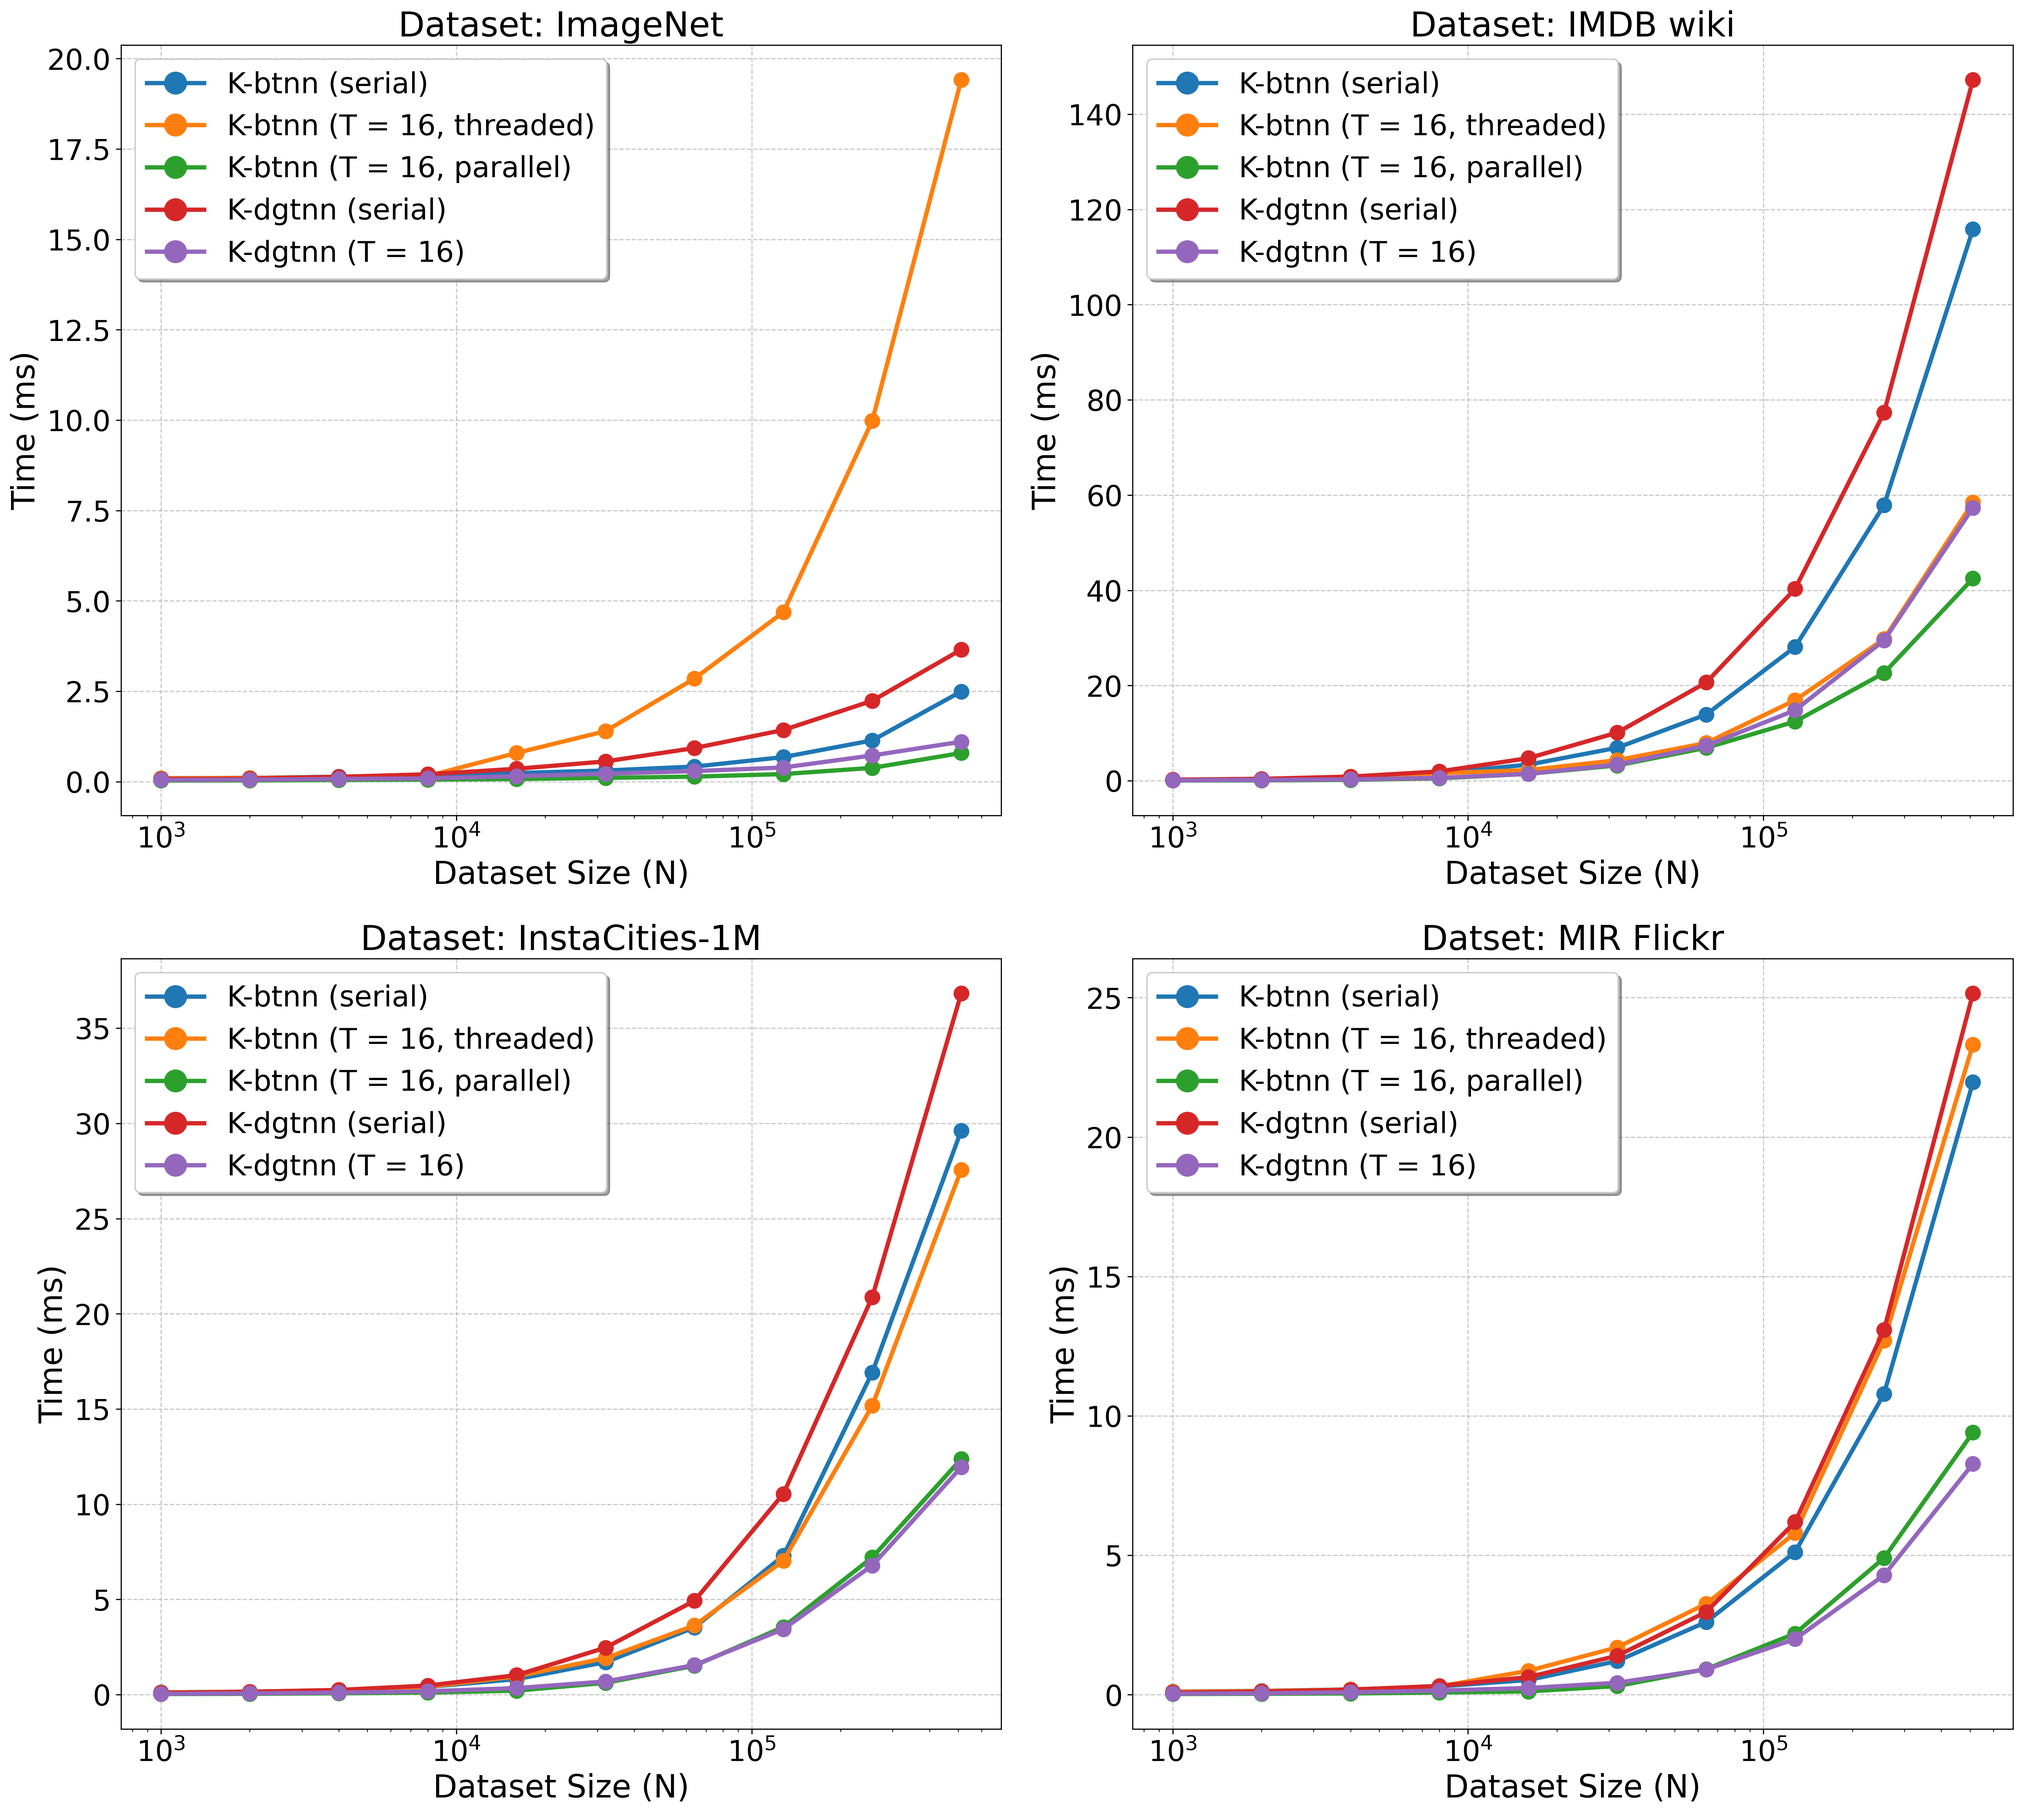
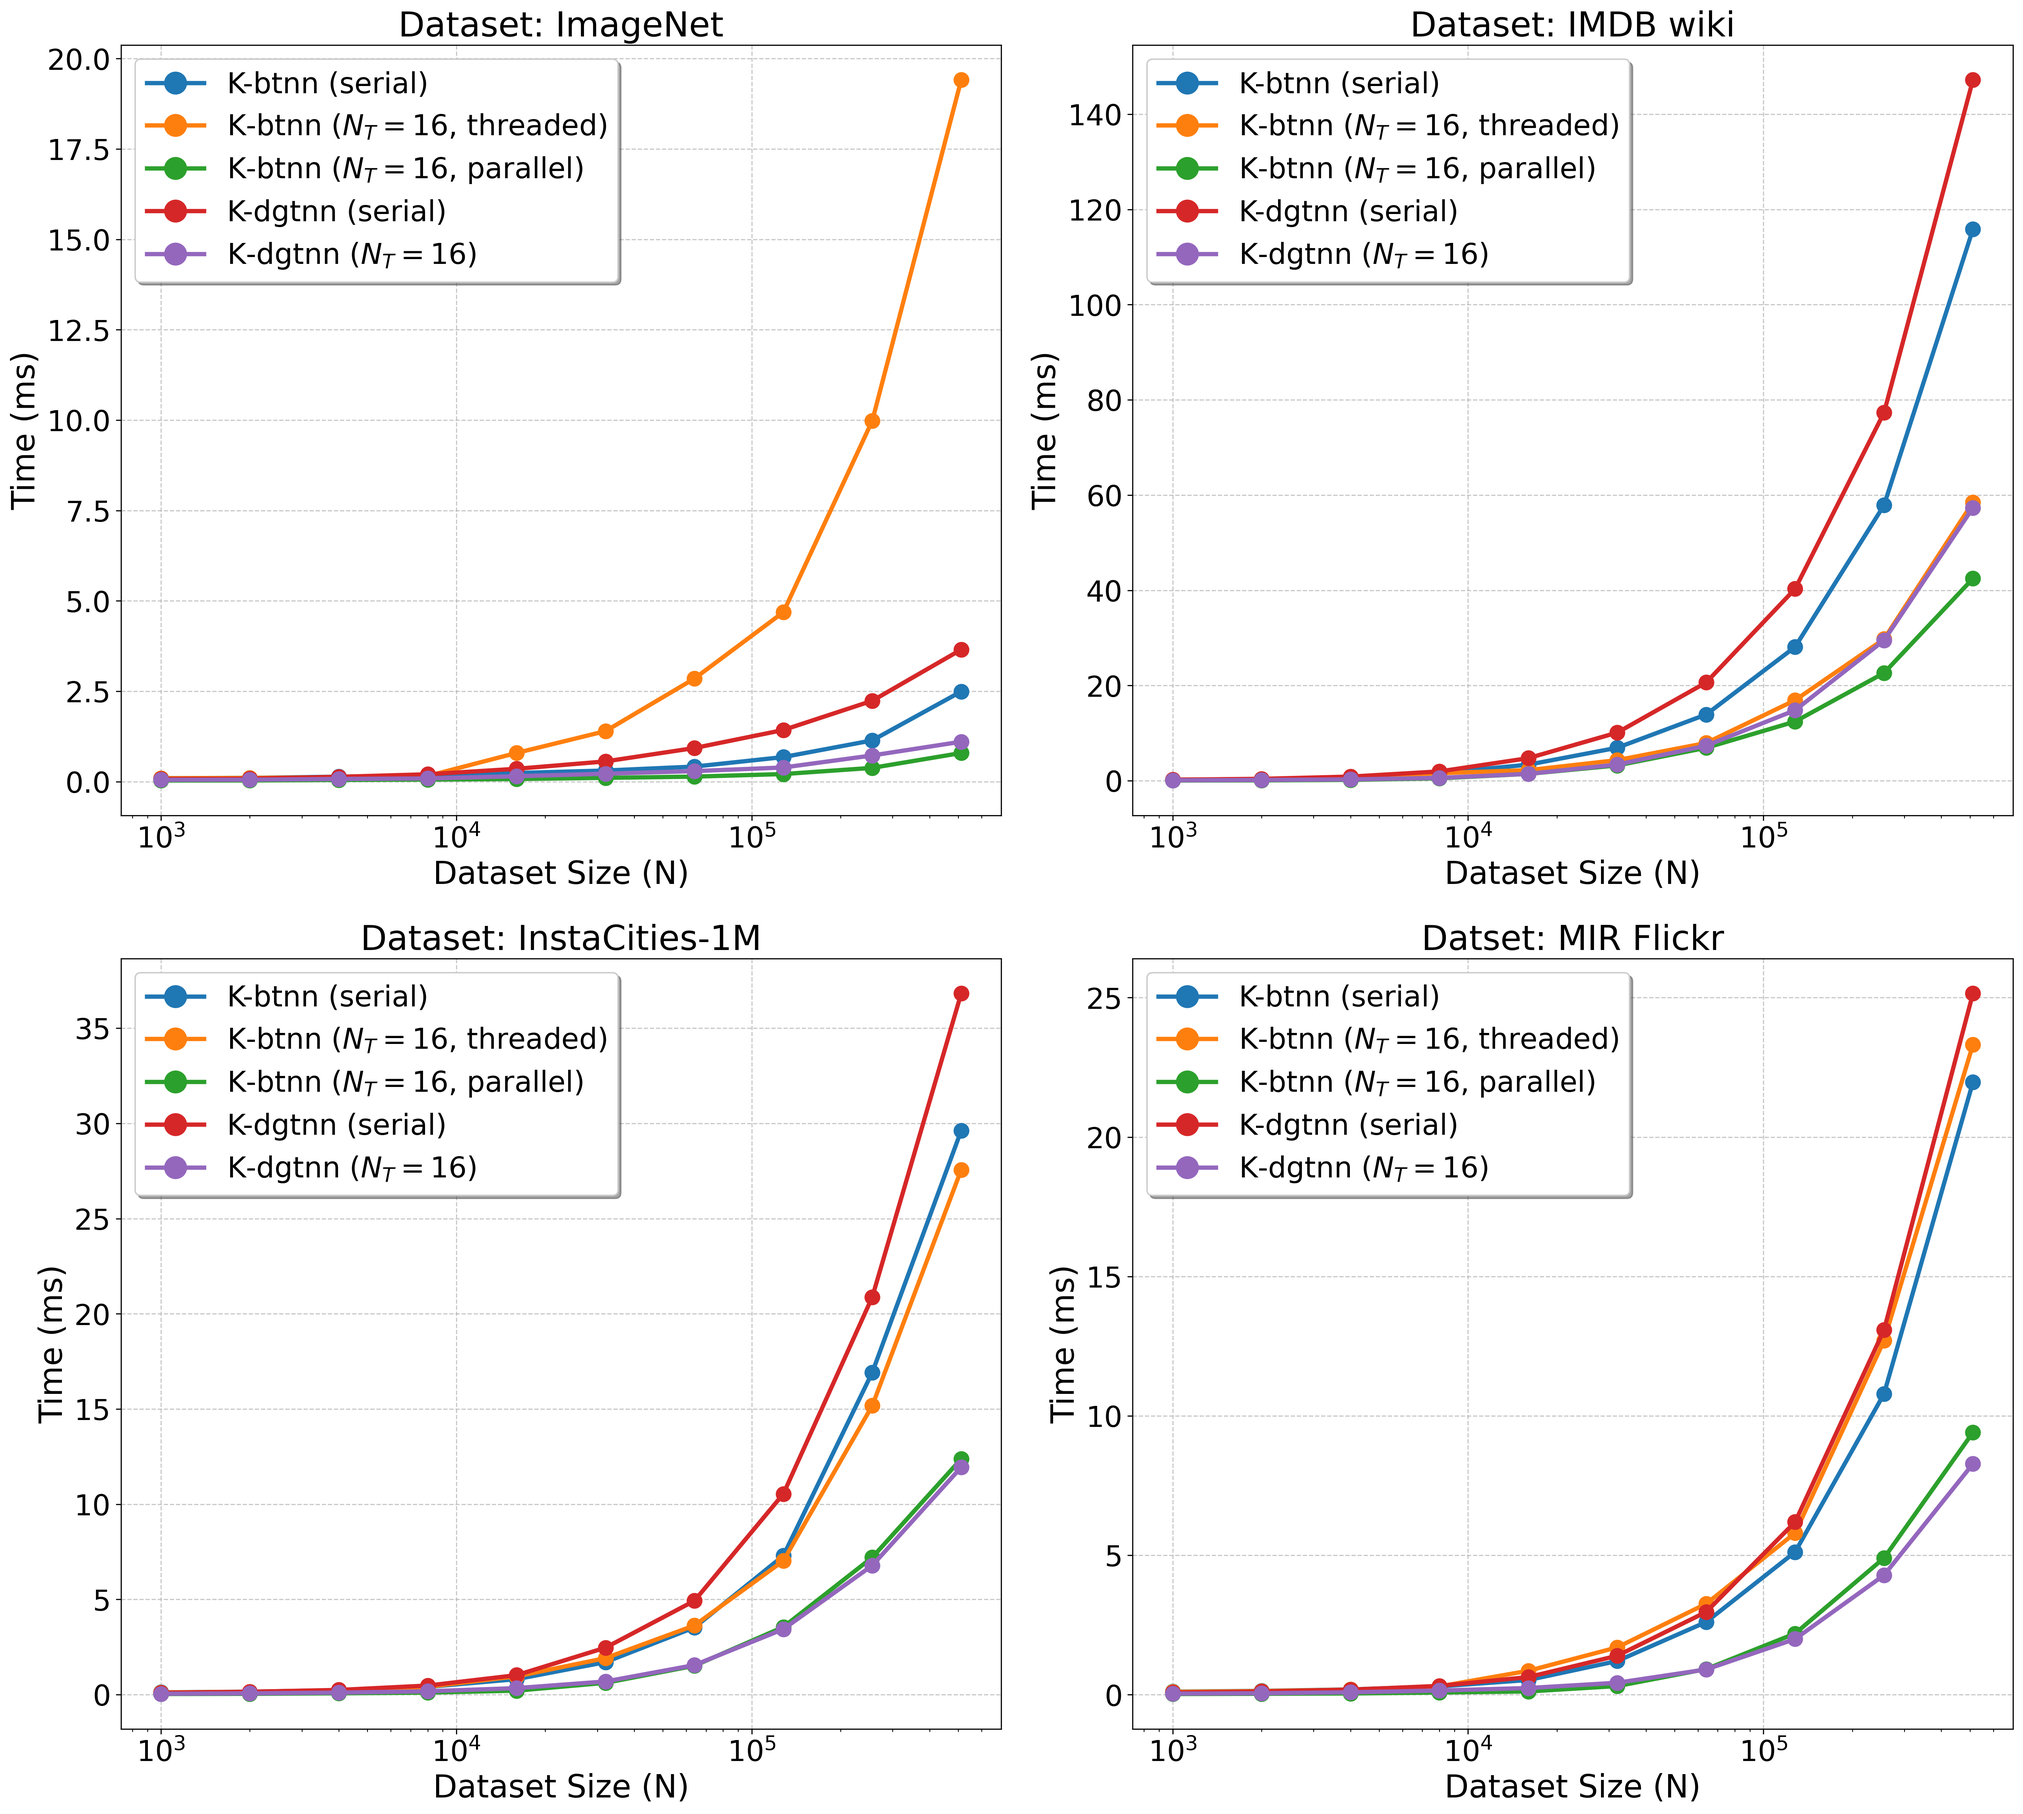
Better legend for plotting ablation results

diff --git a/c_src/plot_ablation.py b/c_src/plot_ablation.py
@@ -8,10 +8,10 @@ CUR_DIR: str = os.path.dirname(os.path.abspath(__file__))
 # Define mappings for labels and datasets
 ALGO_MAPPING = {
     "single": "K-btnn (serial)",
-    "single_threaded": "K-btnn (T = 16, threaded)",
-    "single_parallel": "K-btnn (T = 16, parallel)",
+    "single_threaded": "K-btnn ($N_T = 16$, threaded)",
+    "single_parallel": "K-btnn ($N_T = 16$, parallel)",
     "double": "K-dgtnn (serial)",
-    "double_threaded": "K-dgtnn (T = 16)"
+    "double_threaded": "K-dgtnn ($N_T = 16$)"
 }
 
 DATASET_MAPPING = {
@@ -72,7 +72,7 @@ def plot_ablation(data_type, output_name, title):
         ax.set_xscale('log')
 
     plt.tight_layout()
-    plt.savefig(os.path.join("c_src", output_name), bbox_inches='tight', dpi=300)
+    plt.savefig(os.path.join(CUR_DIR, output_name), bbox_inches='tight', dpi=300)
     print(f"Saved {output_name}")
 
 if __name__ == "__main__":
